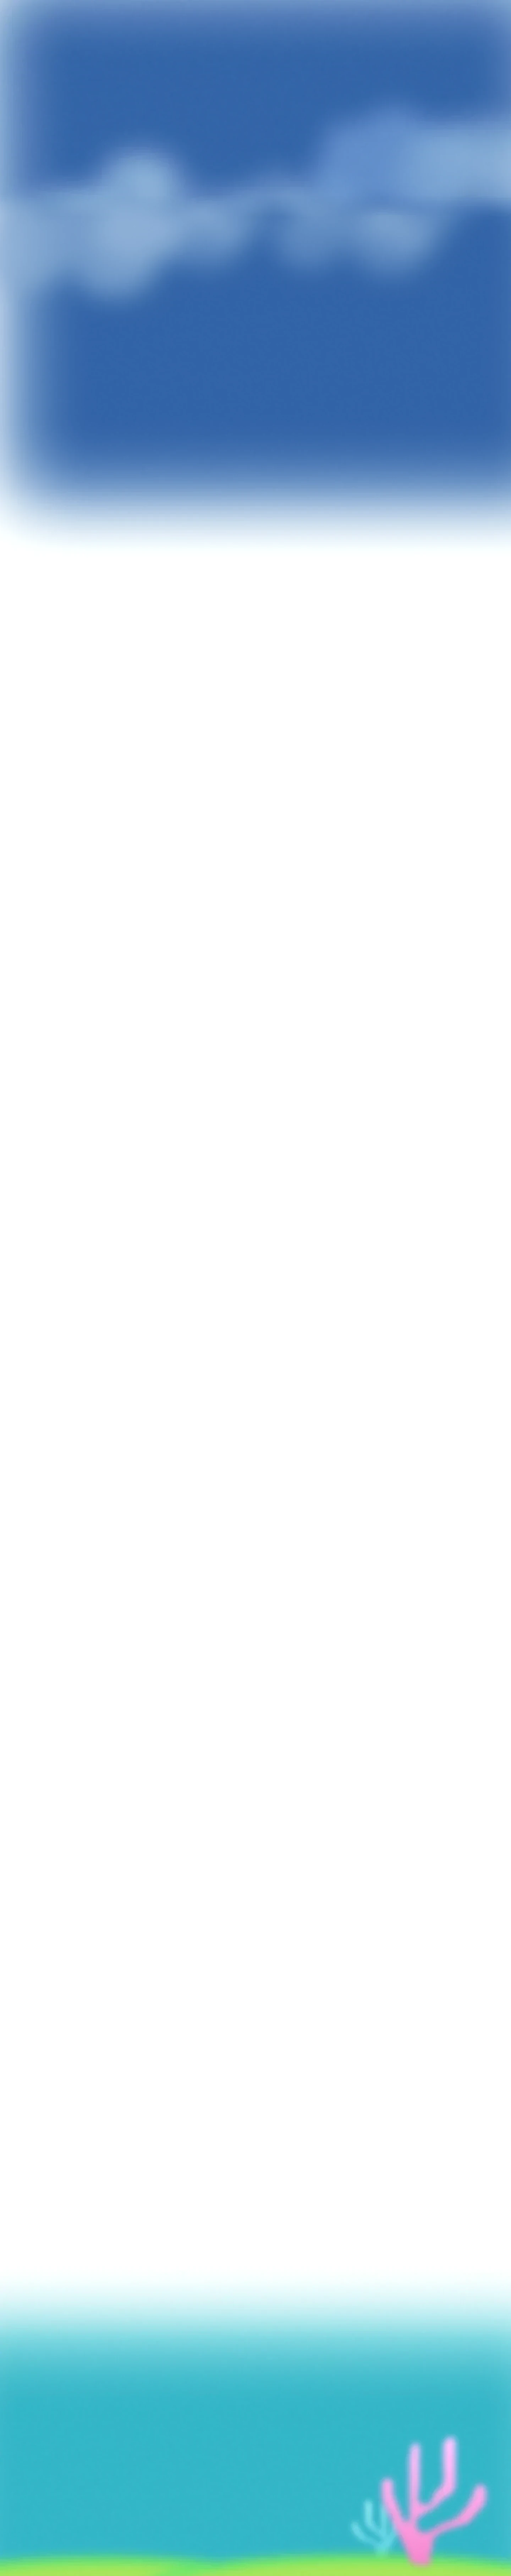
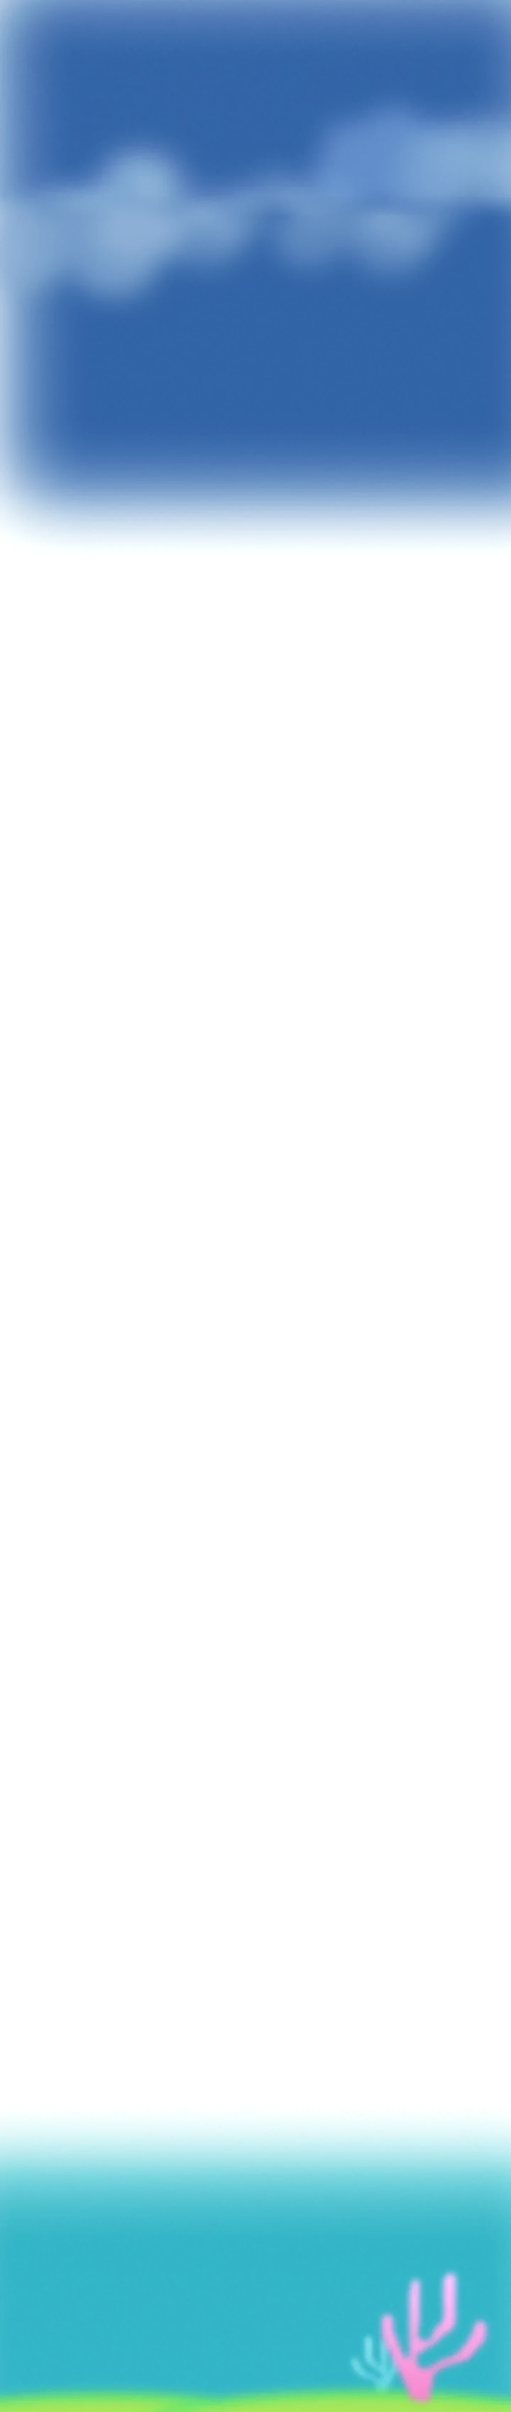
One menu, leaves swing on their stems, tighter sunset, glass contact
- Desktop: the menu at the top stays in place while scrolling and looks the
  same; it turns blue over the white stretch from Work to the sunset. The pill
  menu is now phones-only.
- The leaf doors keep one size and swing outwards on their stems.
- 460px less white between the Work list and the sunset.
- Email and social buttons are frosted glass with white type and icons.

Claude-Session: https://claude.ai/code/session_01DvA43kwznhfsetrajp2DeL

diff --git a/styles.css b/styles.css
@@ -33,10 +33,10 @@ body {
 .stage {
   position: relative;
   width: 1440px;
-  height: 7257px;
+  height: 6797px;
   overflow: clip;   /* not hidden: that would stop the sticky chameleon */
   /* All artwork, exported from the Figma frame with text and icons hidden */
-  background: #fff url("assets/background.webp?v=6") top left / 1440px 7257px no-repeat;
+  background: #fff url("assets/background.webp?v=7") top left / 1440px 6797px no-repeat;
   /* script.js sets `zoom` so the 1440px design fills the viewport width */
 }
 
@@ -58,7 +58,7 @@ body {
    an animated WebP, 330ms per frame), on the same canvas mapping as in Figma. */
 .bird { opacity: .3; filter: blur(3px); }
 /* The fish swims behind the pink coral (baked into the background): cut the
-   coral's shape out of the fish. Coral sits at (1053.8, 6843.8) on the stage. */
+   coral's shape out of the fish. Coral sits at (1053.8, 6383.8) on the stage. */
 .fish {
   filter: blur(4.2px);
   pointer-events: none;
@@ -80,7 +80,7 @@ body {
 .pin-wrap { position: absolute; left: 0; top: 459px; width: 1440px; height: 2200px; }
 .pin {
   position: sticky; top: var(--pin-top, -361px); width: 1440px; height: 1500px; overflow: clip;
-  background: #fff url("assets/background.webp?v=6") 0 -459px / 1440px 7257px no-repeat;
+  background: #fff url("assets/background.webp?v=7") 0 -459px / 1440px 6797px no-repeat;
 }
 
 /* moved by script.js while pinned: the white cloud shape settles in the centre,
@@ -139,22 +139,28 @@ body::before {
 
 /* contact: small text on the light sea is navy; the email is a clear button */
 .t-body { font: 18px/1.4 var(--font-body); color: var(--navy) !important; text-align: center; }
+/* email and socials: frosted glass over the sea, white type and icons */
+.t-email, .social {
+  border: 1px solid rgba(255, 255, 255, .7);
+  background: rgba(255, 255, 255, .14);
+  -webkit-backdrop-filter: blur(10px); backdrop-filter: blur(10px);
+  box-shadow: inset 0 1px 0 rgba(255, 255, 255, .35), 0 12px 30px -18px rgba(14, 63, 115, .6);
+}
 .t-email {
   display: flex; align-items: center; justify-content: center;
-  border-radius: 40px; background: #fff; color: var(--c-blue) !important;
+  border-radius: 40px; color: #fff !important;
   font: 20px/1 var(--font-body); text-decoration: none;
-  box-shadow: 0 10px 30px -14px rgba(14, 63, 115, .55);
-  transition: background .25s, color .25s, transform .3s cubic-bezier(.3, 1.6, .5, 1);
+  transition: background .25s, transform .3s cubic-bezier(.3, 1.6, .5, 1);
 }
-.t-email:hover, .t-email:focus-visible { background: var(--c-blue); color: #fff !important; transform: translateY(-2px); }
+.t-email:hover, .t-email:focus-visible { background: rgba(255, 255, 255, .3); transform: translateY(-2px); }
 .socials { display: flex; justify-content: center; gap: 14px; }
 .social {
-  display: grid; place-items: center; width: 56px; height: 56px; border-radius: 50%; background: #fff;
-  box-shadow: 0 10px 30px -14px rgba(14, 63, 115, .55);
-  transition: transform .4s cubic-bezier(.3, 1.6, .5, 1);
+  display: grid; place-items: center; width: 56px; height: 56px; border-radius: 50%;
+  transition: transform .4s cubic-bezier(.3, 1.6, .5, 1), background .25s;
 }
+.social:hover, .social:focus-visible { background: rgba(255, 255, 255, .3); }
 .social:hover, .social:focus-visible { transform: translateY(-3px) rotate(-8deg); }
-.social img { display: block; width: auto; height: 22px; }
+.social img { display: block; width: auto; height: 22px; filter: brightness(0) invert(1); }
 
 .btn {
   display: flex;
@@ -486,7 +492,17 @@ a:focus-visible { outline: 2px solid var(--white); outline-offset: 4px; }
   .cloudpop .field-head, .cloudpop .plate, .cloudpop .toolbox, .portrait .frame, .notes li::before, .notes li::after { transition: none; }
 }
 
-/* ---------- Sticky menu ---------- */
+/* ---------- Menu ----------
+   On desktop the menu at the top of the page stays where it is while scrolling,
+   looking the same; script.js turns it blue over the white parts of the page.
+   The pill-shaped menu below is only used on phones, where that menu is hidden. */
+@media (min-width: 761px) {
+  .stage .nav { position: fixed; z-index: 60; transition: color .35s; }
+  .stage .nav.on-light { color: var(--c-blue); }
+  nav.topbar { display: none; }
+}
+
+/* ---------- Phone menu ---------- */
 .topbar {
   position: fixed; z-index: 70; top: 14px; left: 50%; display: flex; gap: 4px; padding: 6px;
   border-radius: 40px; background: rgba(255, 255, 255, .78); backdrop-filter: blur(10px); -webkit-backdrop-filter: blur(10px);
@@ -502,9 +518,10 @@ a:focus-visible { outline: 2px solid var(--white); outline-offset: 4px; }
 
 /* ---------- Sunset ---------- */
 .sunset-art { position: relative; width: 1440px; height: 860px; }
-/* leaf doors (script.js): pivot on the blade's centre; the right one is mirrored */
-.leaf { width: 600px; height: 735px; pointer-events: none; will-change: transform; transform-origin: 239px 353px; }
-.leaf-r { transform-origin: 361px 353px; transform: scaleX(-1); }
+/* leaf doors (script.js): same size throughout, hinged on the end of the stem;
+   the right one is mirrored */
+.leaf { width: 600px; height: 735px; pointer-events: none; will-change: transform; transform-origin: 0 529px; }
+.leaf-r { transform: scaleX(-1); }   /* its box starts at the stem end; mirrored, the blade points back in */
 /* laptop screen: shows the projects one by one; click opens the one on screen */
 .screen {
   width: 314px; height: 208px; transform-origin: 0 0; transform: rotate(-10.5deg);
@@ -535,7 +552,7 @@ a:focus-visible { outline: 2px solid var(--white); outline-offset: 4px; }
 
   .sec {
     position: relative; top: auto !important; width: 100%; padding: 0 20px;
-    background: url("assets/background.webp?v=6") no-repeat;
+    background: url("assets/background.webp?v=7") no-repeat;
     background-size: calc(1440px * var(--s, 1)) auto;
     background-position: center calc(var(--y0, 0) * var(--s, 1) * -1px);
   }
@@ -553,7 +570,7 @@ a:focus-visible { outline: 2px solid var(--white); outline-offset: 4px; }
      second background, and the crop fades into the white of the Work section */
   #about {
     --y0: 750; --s: .8; min-height: 690px; padding-top: 40px; padding-bottom: 110px;
-    background-image: url("assets/clouds.webp"), url("assets/background.webp?v=6");
+    background-image: url("assets/clouds.webp"), url("assets/background.webp?v=7");
     background-size: calc(1440px * var(--s)) auto;
     background-position: calc(-60px * var(--s)) calc((1190 - var(--y0)) * var(--s) * 1px), calc(-60px * var(--s)) calc(var(--y0) * var(--s) * -1px);
   }
@@ -584,10 +601,10 @@ a:focus-visible { outline: 2px solid var(--white); outline-offset: 4px; }
   .wcard .thumb { font-size: 22px; }
 
   .sunset { padding: 0; overflow: hidden; background: none; }
-  .sunset-art { zoom: var(--mz, .45); margin-left: -300px; background: url("assets/background.webp?v=6") 0 -5800px / 1440px 7257px no-repeat; }
+  .sunset-art { zoom: var(--mz, .45); margin-left: -300px; background: url("assets/background.webp?v=7") 0 -5340px / 1440px 6797px no-repeat; }
   .sunset-art .l { position: absolute; left: var(--x); top: var(--y); width: auto; height: auto; }
 
-  #contact { --y0: 6620; --s: .9; min-height: 600px; padding-top: 44px; padding-bottom: 110px; text-align: center; }
+  #contact { --y0: 6160; --s: .9; min-height: 600px; padding-top: 44px; padding-bottom: 110px; text-align: center; }
   #open { width: 92%; max-width: 420px; margin: 0 auto; }
   .t-body { margin-top: 28px; font-size: 16px; white-space: normal !important; }
   .t-email { width: 100% !important; max-width: 340px; height: 54px !important; margin: 12px auto 0; font-size: 17px; }

diff --git a/index.html b/index.html
@@ -11,7 +11,7 @@
   <link rel="preconnect" href="https://fonts.googleapis.com">
   <link rel="preconnect" href="https://fonts.gstatic.com" crossorigin>
   <link rel="stylesheet" href="https://fonts.googleapis.com/css2?family=Archivo:wdth,wght@125,400;125,700&family=Italiana&family=Unbounded:wght@300;400;500&display=swap">
-  <link rel="stylesheet" href="styles.css?v=f79cd4f4">
+  <link rel="stylesheet" href="styles.css?v=08648b10">
   <script>document.documentElement.classList.add('js', 'is-loading')</script>
 </head>
 <body>
@@ -68,7 +68,7 @@
 
     <!-- Sunset: sun, water lines and laptop as separate layers, stacked as in Figma.
          The laptop screen shows the projects one by one (chameleon.js). -->
-    <div class="sec sunset" style="top:5800px">
+    <div class="sec sunset" style="top:5340px">
       <div class="sunset-art">
         <img class="l" style="--x:390px;--y:16px" src="assets/sun.svg" width="661" height="661" alt="">
         <img class="l" style="--x:0px;--y:551px" src="assets/waves.svg" width="1440" height="264" alt="">
@@ -77,12 +77,13 @@
           <span class="s-k">Now showing</span><span class="s-t"><span id="scrText">Open for new projects</span><span class="caret" aria-hidden="true"></span></span>
         </button>
         <!-- Two leaves (the Figma leaf and its mirror) close over the sun and laptop and
-             swing open as the sunset scrolls up, ending at the leaves' Figma spot (script.js) -->
-        <img class="l leaf leaf-l" id="leafL" style="--x:0px;--y:-562px" src="assets/leaf.webp" width="600" height="735" alt="">
-        <img class="l leaf leaf-r" id="leafR" style="--x:840px;--y:-562px" src="assets/leaf.webp" width="600" height="735" alt="">
+             swing outwards on their stems as the sunset scrolls up (script.js). Each stem
+             end sits at the screen edge: (-40, 620) and (1480, 620). -->
+        <img class="l leaf leaf-l" id="leafL" style="--x:-40px;--y:91px" src="assets/leaf.webp" width="600" height="735" alt="">
+        <img class="l leaf leaf-r" id="leafR" style="--x:1480px;--y:91px" src="assets/leaf.webp" width="600" height="735" alt="">
       </div>
     </div>
-    <img class="l fish" style="--x:-171px;--y:6337px;--w:3150px;--h:2100px" src="assets/fish.gif" alt="">
+    <img class="l fish" style="--x:-171px;--y:5877px;--w:3150px;--h:2100px" src="assets/fish.gif" alt="">
 
 
     <!-- Work -->
@@ -107,7 +108,7 @@
     </section>
 
     <!-- Contact -->
-    <section class="sec" id="contact" style="top:6694px" aria-labelledby="open">
+    <section class="sec" id="contact" style="top:6234px" aria-labelledby="open">
       <h2 class="l reveal type" id="open" style="--d:0s;--x:405.7px;--y:16.08px"><img src="assets/type-open.svg" width="630" height="68" alt="Open for new projects"></h2>
       <p class="l reveal t-body" style="--d:.12s;--x:520px;--y:112px;--w:400px">Write directly to</p>
       <a class="l reveal t-email" style="--d:.2s;--x:520px;--y:150px;--w:400px;--h:56px" href="mailto:nikasaracuta@gmail.com">nikasaracuta@gmail.com</a>
@@ -214,7 +215,7 @@
   </div>
 
   <script src="loader.js?v=68ee955a"></script>
-  <script src="script.js?v=c0311f63"></script>
+  <script src="script.js?v=bdd87005"></script>
   <script src="about.js?v=37dfe53c"></script>
   <script src="chameleon.js?v=6754f284"></script>
 </body>

diff --git a/script.js b/script.js
@@ -134,11 +134,12 @@ if (about && puff && cloudsL && cloudsR) {
 }
 
 // Leaf doors: the Figma leaf and its mirror meet over the sun and laptop, then
-// swing open together as the sunset scrolls up, ending at the leaves' Figma spot.
+// swing outwards together on their stems as the sunset scrolls up.
 const sunsetArt = document.querySelector('.sunset-art');
 const leafL = document.getElementById('leafL'), leafR = document.getElementById('leafR');
-// closed: blade centres moved from their Figma spot (239, -209) / (1201, -209) to (560, 400) / (880, 400)
-const DOOR = { dx: 321, dy: 609, rot: 12, scale: 1.9 };
+// one size throughout, hinged on the stem ends at the screen edges: closed, the blades
+// meet over the sun; open, they have swung up and out
+const DOOR = { scale: 1.8, closed: 20, open: -55 };
 let leavesQueued = false;
 function moveLeaves() {
   leavesQueued = false;
@@ -146,13 +147,32 @@ function moveLeaves() {
   // 0 (closed) until the sunset's top reaches 45% of the screen, 1 (open) once it reaches the top
   let p = reduceMotion.matches ? 1 : Math.max(0, Math.min(1, (.45 * vh - r.top) / (.45 * vh)));
   p = p * p * (3 - 2 * p);
-  const k = 1 - p, s = 1 + (DOOR.scale - 1) * k, ty = DOOR.dy * k, rot = DOOR.rot * k;
-  leafL.style.transform = `translate(${(DOOR.dx * k).toFixed(1)}px, ${ty.toFixed(1)}px) rotate(${rot.toFixed(2)}deg) scale(${s.toFixed(3)})`;
-  leafR.style.transform = `translate(${(-DOOR.dx * k).toFixed(1)}px, ${ty.toFixed(1)}px) rotate(${(-rot).toFixed(2)}deg) scale(${(-s).toFixed(3)}, ${s.toFixed(3)})`;
+  const a = DOOR.closed + (DOOR.open - DOOR.closed) * p, s = DOOR.scale;
+  leafL.style.transform = `rotate(${a.toFixed(2)}deg) scale(${s})`;
+  leafR.style.transform = `rotate(${(-a).toFixed(2)}deg) scale(${-s}, ${s})`;
 }
 if (sunsetArt && leafL && leafR) {
   const queueLeaves = () => { if (!leavesQueued) { leavesQueued = true; requestAnimationFrame(moveLeaves); } };
   addEventListener('scroll', queueLeaves, { passive: true });
   addEventListener('resize', queueLeaves);
   moveLeaves();
+}
+
+// Menu colour (desktop): the fixed top menu is white over the sky and the sea and
+// turns blue over the white stretch from Work down to the top of the sunset.
+const nav = document.querySelector('.stage .nav');
+const work = document.getElementById('work');
+let navQueued = false;
+function toneNav() {
+  navQueued = false;
+  if (MOBILE.matches) { nav.classList.remove('on-light'); return; }
+  const z = parseFloat(stage.style.zoom) || 1, y = 45 * z;   // the menu's line on screen
+  const light = work.getBoundingClientRect().top - 100 * z <= y && sunsetArt.getBoundingClientRect().top + 560 * z > y;
+  nav.classList.toggle('on-light', light);
+}
+if (nav && work && sunsetArt) {
+  const queueNav = () => { if (!navQueued) { navQueued = true; requestAnimationFrame(toneNav); } };
+  addEventListener('scroll', queueNav, { passive: true });
+  addEventListener('resize', queueNav);
+  toneNav();
 }

diff --git a/README.md b/README.md
@@ -4,7 +4,7 @@ Static one-page portfolio built from the Figma frame **Main** (node `315:133`) i
 `PORTFOLIO` file. Open `index.html` in a browser — no build step.
 
 - `assets/background.webp` — all artwork, exported from the Figma frame with text and icons hidden.
-  The page is 7257px tall instead of Figma's 4237px: 700px of white at y 1960 for the pinned
+  The page is 6797px tall instead of Figma's 4237px: 700px of white at y 1960 for the pinned
   About scene to hold, and 2320px in the Work section for the scrolling project list. The white
   cloud shape and the blue cloud bank between About and Work are separate layers
   (`sky-puff.webp`, `clouds.webp`) so they can move while About is pinned. The leaves above the
